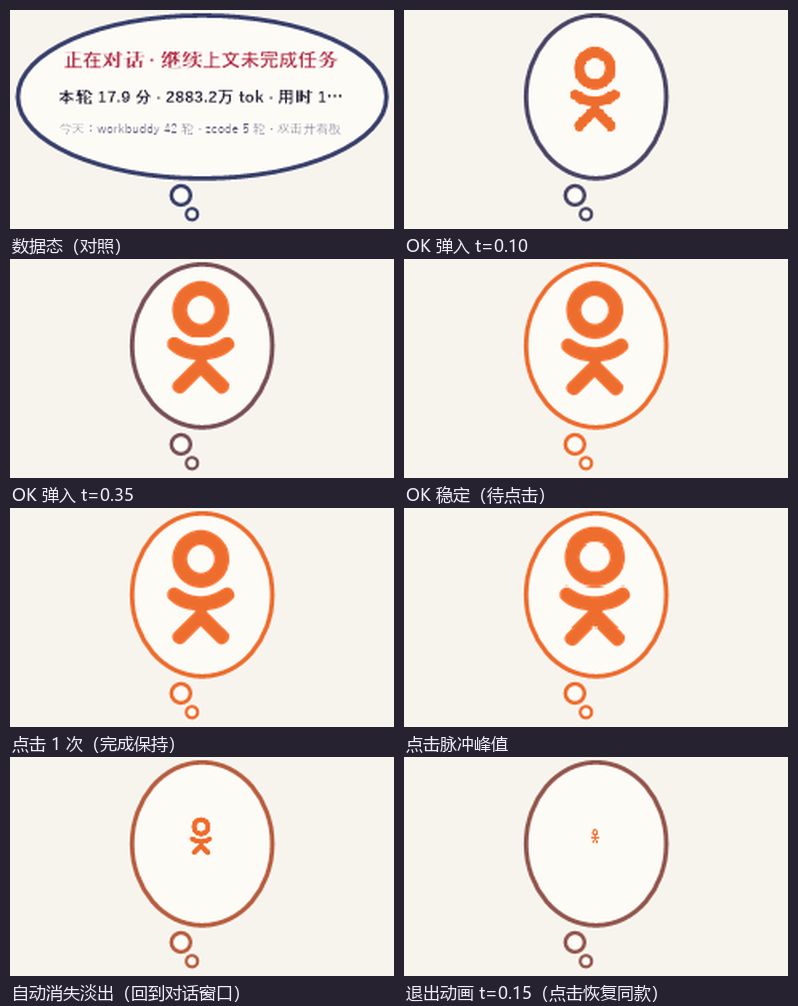
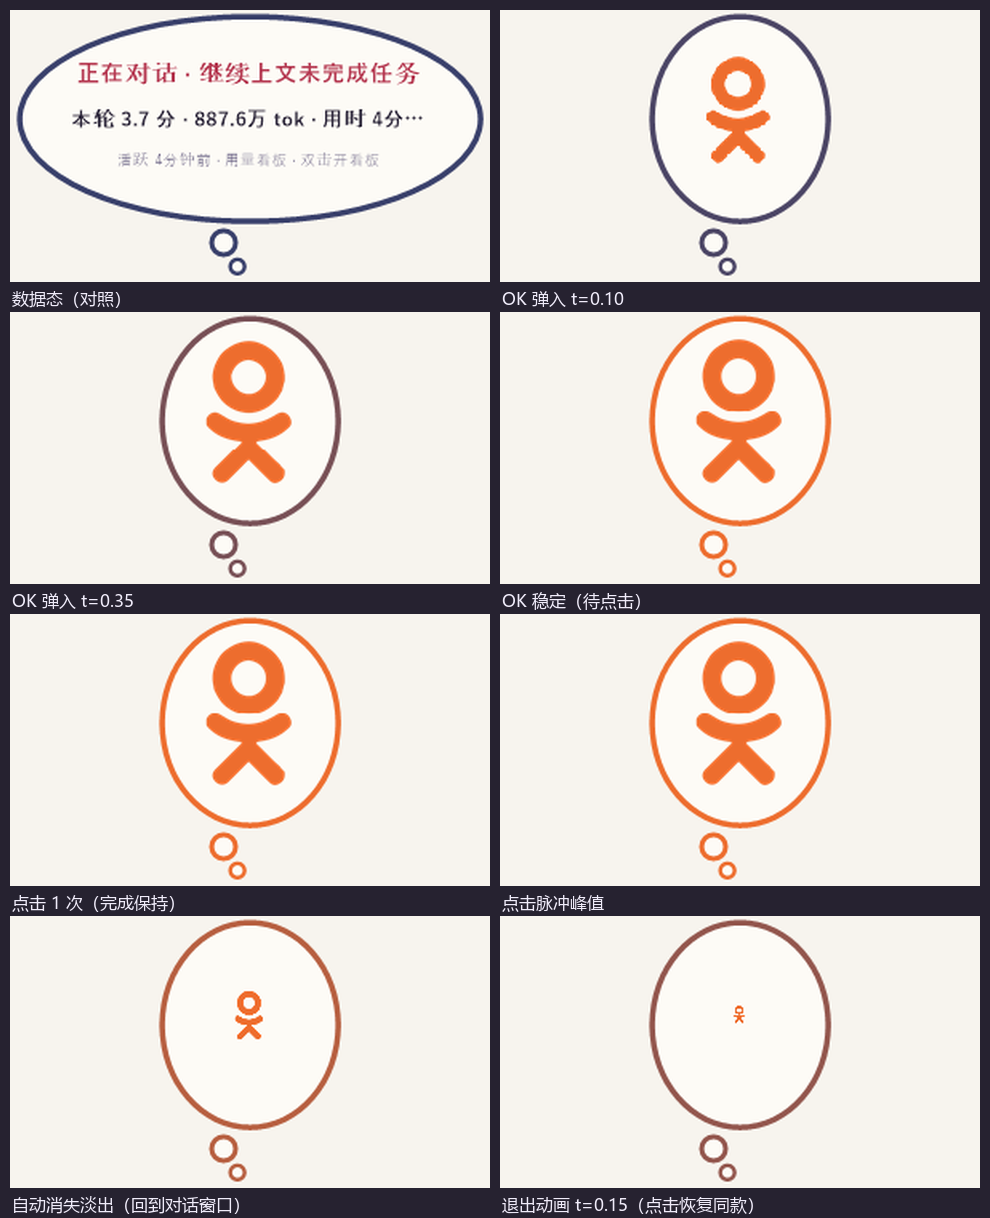
perf(pet): 修右键菜单卡顿——UI 线程不再查库
根因：context_menu 构建时同步调用 _today_timeline()，而它打在一个**视图**
v_turn_total 上（视图无法建索引 → 跨 1GB 基础表扫描）。实测单次 3.4~3.7 秒，
每次右键都要等它跑完才弹菜单。

同一函数还被**气泡文案构建**调用 → 只要缓存过期，气泡刷新同样冻 3.6 秒
（这才是平时也觉得卡的根源，不只是右键）。

修法：
- _today_timeline 改为**只读缓存**，过期就丢给后台 daemon 线程刷新，立即返回
- 新增 _kick_timeline_refresh（同一时刻只跑一个）
- 启动时后台预热一次

实测：_today_timeline 冷缓存 3.4~3.7s → 0.00ms；菜单路径剩余开销仅 REG.load 0.47ms。
代价：数据最多晚一轮（首次打开可能显示统计中），换 UI 永不卡。

diff --git a/app/wb_whale_win.py b/app/wb_whale_win.py
@@ -1026,7 +1026,8 @@ class WhalePet:
         self._follow_seen_seq = -1      # 动画帧已消费的序号（-1 → 首帧即解析一次）
         self._follow_poll_n = 0         # 轮询兜底分频
         # ---- P2 连续锚点：跨 agent 统一时间线（10s 缓存，纯查询零新链路）----
-        self._timeline_cache = None     # (at, (summary, recent))
+        self._timeline_cache = None     # (at, (summary, recent)) 只读缓存，UI 线程绝不查库
+        self._timeline_busy = False     # 后台刷新进行中
         # ---- P3 pin：锁定聚焦（锁定后跟随不覆盖；手动切换走「手动聚焦」子菜单）----
         self.focus_pin = bool(self._settings.get("focus_pin", False))
         self._focus_pin_key = self._settings.get("focus_pin_key") or None
@@ -1086,6 +1087,8 @@ class WhalePet:
         self._recreate_window(place=True)
         self.tick()
         self._arm_timers()                # 统一挂载定时器（hwnd 变化后需重新挂载）
+        # 启动时后台预热时间线：首次右键/首批气泡就不用等（查库 3.6s 全在后台线程）
+        self._kick_timeline_refresh()
         # P3 全局热键（Ctrl+Alt+F9 手动聚焦轮换）：绑定桌宠 hwnd，
         # WM_HOTKEY 走既有消息泵；组合被占用 → 静默降级（右键菜单仍是兜底）
         self._install_follow_hotkey()
@@ -2631,13 +2634,42 @@ class WhalePet:
 
     # ---- 跟随模式（设计文档 P1）：前台 → agent，去抖 + 未知态 ----
     def _today_timeline(self):
-        """P2 连续锚点：今天跨 agent 轮次统计 + 最近轮次（10s 缓存）。"""
+        """P2 连续锚点：今天跨 agent 轮次统计 + 最近轮次。
+
+        ⚠ **绝不在 UI 线程查库**（2026-09-26 性能修复）。
+        原来这里是 10s 缓存 + 过期就同步查；但 `today_timeline()` 打在一个**视图**
+        `v_turn_total` 上（视图无法建索引 → 跨 1GB 基础表扫描），实测**单次 3.4~3.7 秒**。
+        而这个函数被两处 UI 线程调用：
+          · 右键菜单构建（`context_menu`）
+          · 气泡文案构建（row3 副标）
+        后果：右键要等 3.6 秒才弹菜单；气泡刷新时只要缓存过期同样冻 3.6 秒
+        —— 用户反馈的"右键卡顿"与"平时卡"就是这个。
+
+        现在的策略：**只读缓存，过期就丢给后台线程去刷**，本函数立即返回。
+        代价是数据最多晚一轮（第一次打开可能显示"统计中"），换来 UI 永不卡。
+        """
         now = time.time()
-        if self._timeline_cache and now - self._timeline_cache[0] < 10.0:
-            return self._timeline_cache[1]
-        data = today_timeline(self.db_path)
-        self._timeline_cache = (now, data)
-        return data
+        cached = self._timeline_cache
+        if not cached or now - cached[0] > 10.0:
+            self._kick_timeline_refresh()        # 后台去查（非阻塞）
+        return cached[1] if cached else ([], [])
+
+    def _kick_timeline_refresh(self):
+        """在后台线程刷新时间线缓存（同一时刻只跑一个）。"""
+        if self._timeline_busy:
+            return
+        self._timeline_busy = True
+
+        def work():
+            try:
+                data = today_timeline(self.db_path)
+                self._timeline_cache = (time.time(), data)
+            except Exception:
+                pass
+            finally:
+                self._timeline_busy = False
+
+        threading.Thread(target=work, daemon=True, name="timeline-refresh").start()
 
     def _install_follow_hook(self):
         """前台切换事件钩子（设计 §2.2 首选）。装不上 → 动画帧轮询兜底。"""
